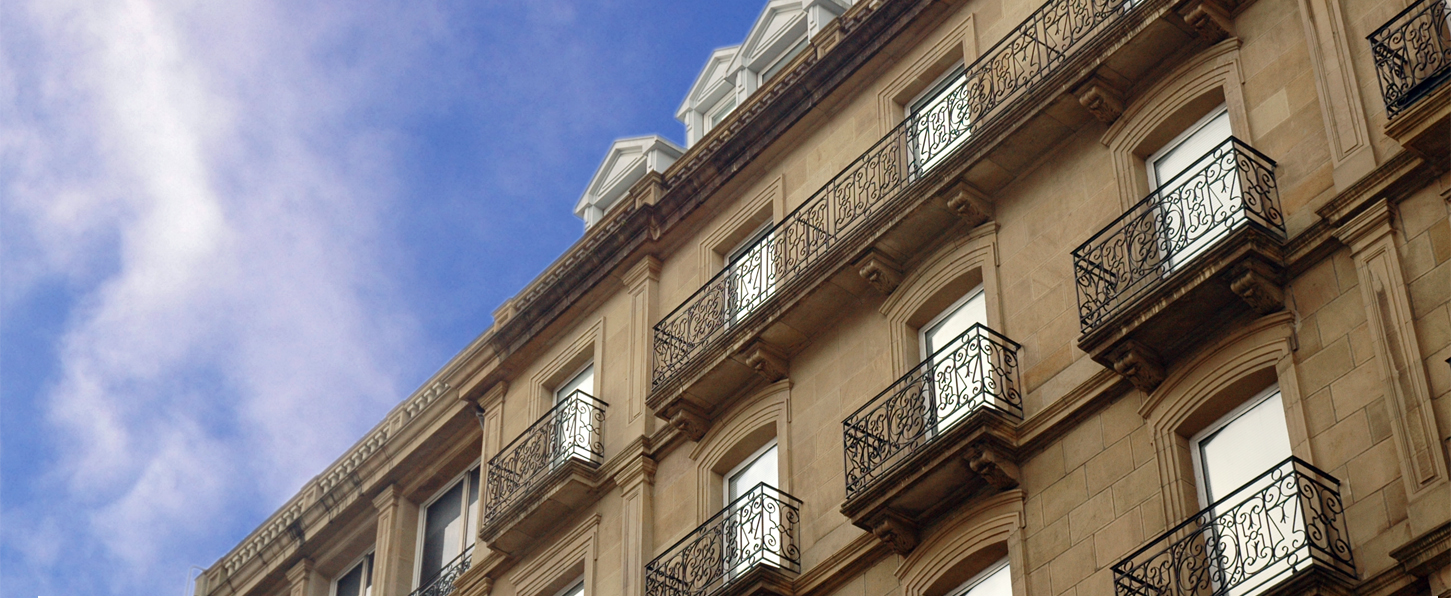
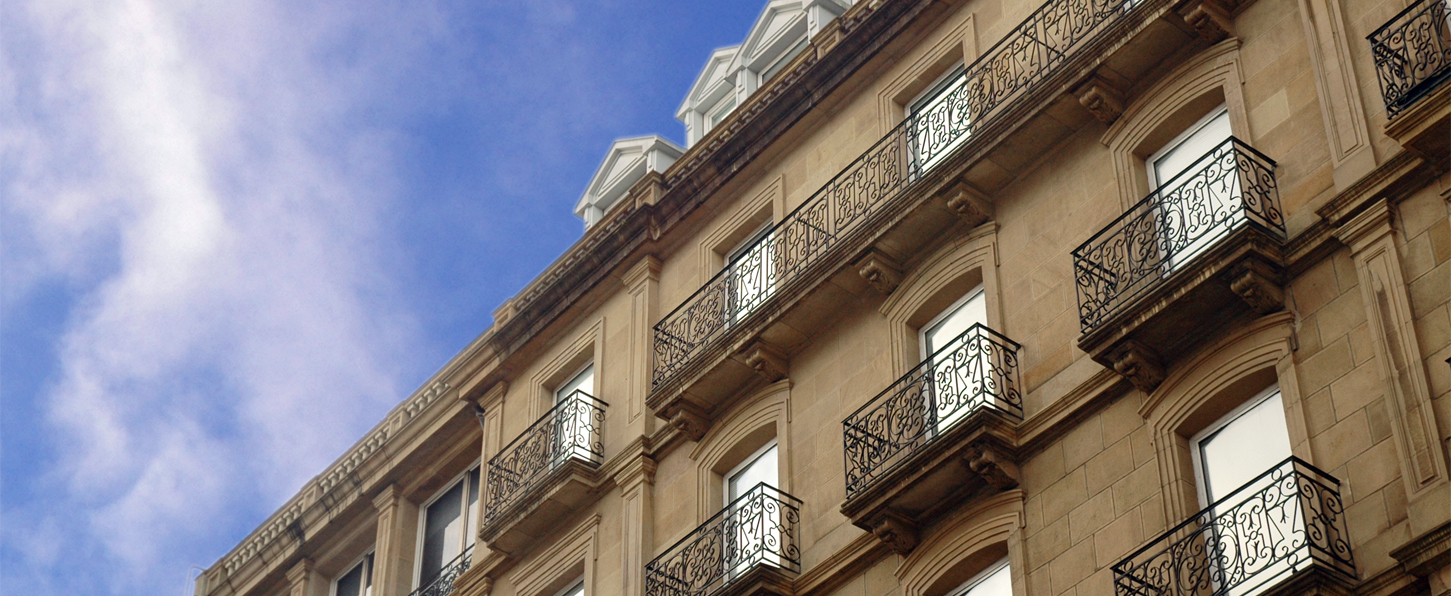
Añado ruta al proyecto en config de compass, corrigo imagen principal y cambio algunos valores de css. Elimino html y js de angular.

diff --git a/_compass/screen.scss b/_compass/screen.scss
@@ -78,8 +78,9 @@ nav.navbar-default {
  * Header
  */
 header {
-  @include background(image-url("slide01.jpg") top center no-repeat);
+  @include background(image-url("slide01.jpg") center center no-repeat);
   background-size: cover;
+  background-attachment: scroll;
   text-align: center;
 
   .intro-text {
@@ -95,6 +96,7 @@ header {
  * Footer
  */
 footer {
+  margin-bottom: 0;
   img {
     width: 25%;
   }

diff --git a/a/j/custom.js b/a/j/custom.js
@@ -3,8 +3,8 @@ $('body').scrollspy({
     target: '.navbar-fixed-top'
 });
 
-  var app = angular.module('tumblrBlog', []);
+//var app = angular.module('tumblrBlog', []);
 
-  app.controller('ListTumblr', ['$scope', function($scope) {
-    $scope.test = "Hello";
-  }]);
+//app.controller('ListTumblrBlogController', ['$scope', function($scope) {
+//  $scope.test = "Hello";
+//}]);

diff --git a/index.html b/index.html
@@ -24,10 +24,12 @@ layout: front
   </div>
 </section>
 
+<!-- Angular ¿?
 <div ng-app="tumblrBlog">
-  <div ng-controller="ListTumblr">
+  <div ng-controller="ListTumblrBlogController">
     <ul>
-      <li>{{ test }}</li>
+      <li>pp {{ 5 + 5 }}</li>
     </ul>
   </div>
 </div>
+-->
